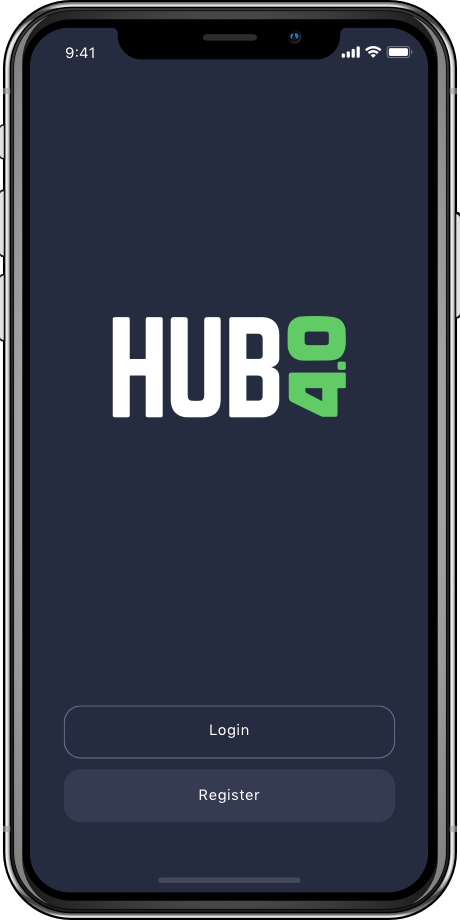
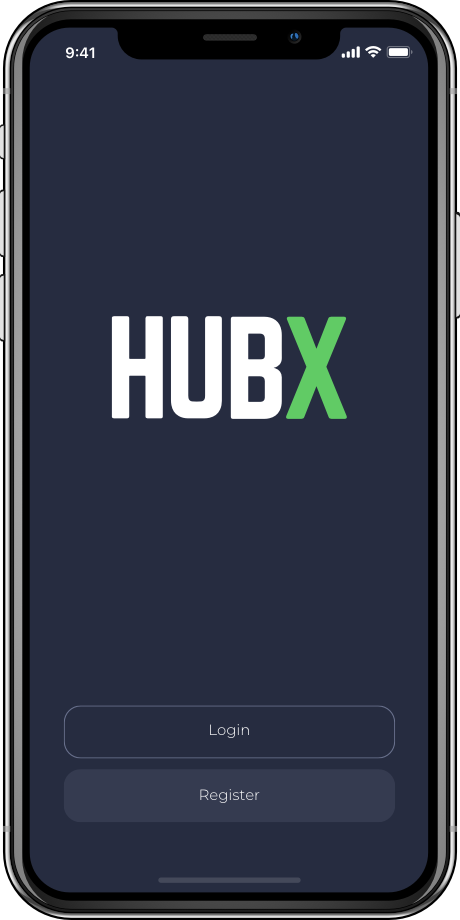
Rename Hub 4.0 -> Hub X

diff --git a/src/pages/Projects/Hub/sections/Logo/icons/index.js b/src/pages/Projects/Hub/sections/Logo/icons/index.js
@@ -1,4 +1,4 @@
-/* eslint-disable max-len */
+/* eslint-disable */
 import React, {PureComponent} from 'react';
 import './index.styl';
 
@@ -71,43 +71,37 @@ export class BackgroundMobile extends PureComponent {
 export class AboutLogo extends PureComponent {
   render() {
     return (
-      <svg xmlns="http://www.w3.org/2000/svg" xmlnsXlink="http://www.w3.org/1999/xlink" width="300" height="300" viewBox="0 0 300 300" className="hub-icon">
+      <svg width="300" height="300" viewBox="0 0 300 300" xmlns="http://www.w3.org/2000/svg">
         <defs>
-          <filter id="filter-1" width="110.7%" height="110.7%" x="-5.4%" y="-5.4%" filterUnits="objectBoundingBox">
+          <filter x="-7.1%" y="-7.1%" width="114.3%" height="114.3%" filterUnits="objectBoundingBox"
+                  id="filter-1">
             <feOffset in="SourceAlpha" result="shadowOffsetOuter1" />
-            <feGaussianBlur in="shadowOffsetOuter1" result="shadowBlurOuter1" stdDeviation="5" />
-            <feColorMatrix in="shadowBlurOuter1" result="shadowMatrixOuter1" values="0 0 0 0 0 0 0 0 0 0 0 0 0 0 0 0 0 0 0.2 0" />
+            <feGaussianBlur stdDeviation="5" in="shadowOffsetOuter1" result="shadowBlurOuter1"
+            />
+            <feColorMatrix values="0 0 0 0 0 0 0 0 0 0 0 0 0 0 0 0 0 0 0.2 0" in="shadowBlurOuter1"
+                           result="shadowMatrixOuter1" />
             <feMerge>
               <feMergeNode in="shadowMatrixOuter1" />
               <feMergeNode in="SourceGraphic" />
             </feMerge>
           </filter>
-          <rect id="path-2" width="280" height="280" rx="63" />
-          <path id="path-4" d="M.09274743.14117799H218.591032V95.1702593H.09274743z" />
         </defs>
-        <g id="Project-pages" fill="none" fillRule="evenodd">
+        <g id="Project-Pages" fill="none" fillRule="evenodd">
           <g id="HUB4.0-presentation-" transform="translate(-490 -2294)">
             <g id="AppIcon" transform="translate(0 2084)">
               <g id="Group-17" transform="translate(500 220)">
                 <g id="Group-13" filter="url(#filter-1)">
-                  <mask id="mask-3" fill="#fff">
-                    <use xlinkHref="#path-2" />
-                  </mask>
-                  <use id="Mask" fill="#262C40" xlinkHref="#path-2" />
-                  <g id="Logo" mask="url(#mask-3)">
-                    <g id="Group-26" transform="translate(30.545455 91.636364)">
-                      <g id="Group-3" transform="translate(0 .534073)">
-                        <mask id="mask-5" fill="#fff">
-                          <use xlinkHref="#path-4" />
-                        </mask>
-                      </g>
-                      <path id="Fill-4" fill="#FFF" d="M.13368494 2.70972121c.4110812-.91083536 1.13966412-1.20194439 2.09829655-1.19634614 3.85402545.02183318 7.70860792.0089572 11.56263341.0089572 1.7156234 0 2.2659597.54806873 2.2676308 2.29360325.0044561 4.90350765.001671 9.80701528.001671 14.71108278 0 7.1875939.0083553 14.3751878-.0155966 21.5627816-.002228.6141281.1788037.7311316.7475217.7283324 4.4778885-.0229528 8.956334-.0235126 13.4342225 0 .594341.003359.7798288-.1298794.7787148-.7641612-.0211668-11.9791365-.0155966-23.9588328-.0144825-35.93796935 0-.26871603.0033421-.53743205.0178246-.80558825.0623863-1.15323962.6817932-1.78136333 1.8181152-1.78416245 4.0768337-.01007685 8.1542244-.01063668 12.2310581 0 1.2638797.00335895 1.8615628.63820056 1.8615628 1.92411871.000557 30.07212244.000557 60.14368514 0 90.21524774 0 1.3195076-.5598057 1.884931-1.8598918 1.884931a22271.70541997 22271.70541997 0 0 1-12.231615 0c-1.1636161 0-1.758514-.5704618-1.8197863-1.7444149-.0150396-.2899894-.0172676-.5816582-.0172676-.8727673-.0011141-11.9343505-.0066843-23.8692608.0144825-35.8036113.001114-.6505168-.1576368-.8100669-.8026667-.8055883-4.4778885.0307904-8.956334.0296707-13.4342225 0-.6132797-.0039188-.7213417.1802637-.7207846.7512852.0167106 11.9567435.0128114 23.9140469.0116974 35.8707904 0 .313502-.0016711.6275639-.0206098.9399463-.0668424 1.0810221-.6829072 1.6638-1.7624131 1.6638-4.0545529.0022393-8.10966275-.0173545-12.16421561.0145555-.96420264.0072777-1.63819755-.2955876-1.98187925-1.2226579V2.70972121z" />
-                      <path id="Fill-6" fill="#61CB65" d="M191.212245 15.0705465c-2.69598 0-5.391959.0022393-8.087382-.0022393-.425564-.0005599-.843329.0363886-1.259424.1276401-1.364143.2972671-1.990791 1.0446335-1.995247 2.4363586-.007799 2.5751953-.006685 5.1503905 0 7.7255858.002785 1.0966972.466226 1.7416157 1.50117 2.1273352.720785.268716 1.476105.3252583 2.234767.3258181 5.034909.0039188 10.070375.0050385 15.105284-.0033589.510231-.0005598 1.024918-.0431065 1.529579-.1186829 1.613688-.2424043 2.269858-1.027279 2.269858-2.6698057.000557-2.3736582 0-4.7467566 0-7.1204149 0-1.8519013-.525827-2.480025-2.34617-2.7716938-.305805-.0487048-.621078-.0537432-.931896-.054303-2.673142-.0039188-5.34684-.0022393-8.020539-.0022393M207.66719 1.58660019c5.797467 1.20643099 9.198081 4.74787629 10.358355 10.51799311.326971 1.625732.195514 3.2956901.27851 4.9443749.199971 3.9803561.382116 7.9898232-.184374 11.926513-.648372 4.5026729-2.088127 8.7440365-6.386798 11.2121762-6.255533 3.5916982-30.046475 4.2119386-38.897861 1.1543592-4.829116-1.668146-7.467975-5.2114114-8.551937-10.1143592-.461214-2.086468-.313046-4.1886111-.344796-6.2823568-.055145-3.6248672-.14204-7.2586917.053474-10.8746017.34201-6.31930521 3.783598-11.27911334 10.573922-12.84518587 4.613772-1.06408815 26.252868-1.06408815 33.101505.36108716z" />
-                      <path id="Fill-10" fill="#FFF" d="M125.284569 68.0725993c0 3.7368323.006684 7.4731047-.008355 11.2099369-.002228.4456208.090794.6230853.580415.6202862 3.539866-.0195939 7.079732.0072777 10.619041-.0167948 2.478184-.0162349 3.983811-1.37605 4.025588-3.8605536.086338-5.0994464.116974-10.2022518.031193-15.3011384-.050132-2.991705-1.656022-4.3834301-4.644995-4.38399-3.317615 0-6.634672.0123162-9.95173-.0123161-.529726-.0044786-.666753.1410759-.663411.6689909.022838 3.6920463.012254 7.3835327.012254 11.0755789m0-39.2258219c0 3.7586654.008356 7.5173308-.010583 11.2759962-.002228.4702531.127558.6012521.596012.598453 3.739836-.0184742 7.479672-.0022393 11.219509-.012876 2.360653-.0067179 3.472466-1.1426029 3.47358-3.5185004.002228-5.0115539.001671-10.0231078-.001114-15.0346617 0-.3347754-.01504-.6701106-.037878-1.0043261-.180474-2.5835927-1.715066-4.0525736-4.277361-4.0615308-3.450185-.0123162-6.900928.0078375-10.351113-.0156751-.505218-.003359-.626091.1321187-.622749.6314826.021724 3.7138795.011697 7.4277589.011697 11.1416383m23.505712 19.7802986c.423893.1125249.852799.2093746 1.271121.3403737 3.774929 1.1851496 6.060941 4.3140118 6.060941 8.2859706.000557 7.3208322.025623 14.6422243-.011697 21.9630566-.015597 2.9754701-.511345 5.8776032-1.853765 8.5742805-1.982993 3.9842749-5.295595 6.2151777-9.518925 7.2155851-1.519552.3599675-3.060271.550308-4.628284.5491884-9.623087-.0089572-19.246175-.0044786-28.86982-.0044786-1.320696 0-1.902782-.5637438-1.956813-1.8966873-.007798-.201537-.001671-.403074-.001671-.604611 0-29.6869629 0-59.3733659.001671-89.0603287 0-.31182255.006127-.62700406.045676-.93602749.126443-.97577507.662854-1.47289972 1.625943-1.52944205.133685-.00783755.267369-.00167947.401054-.00167947 9.556803-.00055983 19.113048-.04086723 28.669293.0201537 3.776043.02351265 7.383308.84309653 10.479228 3.20051984 3.041333 2.31543642 4.564784 5.52323397 5.235437 9.20576317.285194 1.5652709.387129 3.1484561.385458 4.7405986-.006127 6.9625442-.071856 13.9262081.021167 20.8876326.065728 4.9370972-3.242417 8.0648397-7.033499 8.8178044-.102492.0207136-.201085.0587817-.301348.0884524-.006684.0475851-.013926.0957301-.021167.143875" />
-                      <path id="Fill-12" fill="#FFF" d="M101.221057 42.207954c0 12.4264368.006684 24.8534333-.005013 37.2798701-.002785 2.7800912-.488507 5.4784479-1.6621496 8.0122161-1.9167078 4.1404661-5.2599454 6.473817-9.5913375 7.5044549-1.5852806.3773221-3.193956.5581456-4.8293685.5525473-5.1017515-.0162349-10.2040601.0335895-15.3046976-.0212733-2.9054194-.0313502-5.6972066-.6762687-8.2583873-2.1138994-3.9498329-2.2169073-5.9361684-5.7768348-6.7477474-10.1137995-.2968919-1.5865442-.3949276-3.1915626-.3943705-4.8066579.0050132-24.7414683.0033421-49.4823767.0033421-74.22384504 0-1.86645673.8806495-2.75545892 2.7294009-2.75545892 3.5420939 0 7.0847448-.00055982 10.6268387.00055983 1.6454389.00055982 2.5522684.91643361 2.5522684 2.57743455 0 23.53224618 0 47.06449238.000557 70.59673848.000557.7384093.02618 1.4773784.1927291 2.2006723.4094101 1.7735258 1.5624428 2.8987742 3.3571631 3.0532859 2.7750766.2396051 5.5635216.2396051 8.3391552.0016795 1.9529142-.1673877 3.2240352-1.5148866 3.4613259-3.4916289.0746408-.6202862.1086191-1.2489697.1086191-1.8737345.0055702-23.4426741.0183816-46.8853483-.0222809-70.32746264-.0033421-1.8255895 1.2822614-2.7996851 2.7555809-2.76329647 3.3844571.08229428 6.7722563.0246323 10.1583844.02631178 1.6064475.00111965 2.5294305.92483099 2.5294305 2.53264854.001114 12.71754579.000557 25.43509149.000557 38.15263729" />
-                      <path id="Fill-14" fill="#61CB65" d="M188.484961 68.1639628c-2.428053 0-4.856663.0156751-7.284716-.012876-.509673-.0055983-.655613.1377169-.62442.6382005.043448.691384.045119 1.3894858.002785 2.0808698-.056259.9231515.339226 1.4896944 1.149691 1.9101231 4.660591 2.4195638 9.304472 4.8710378 13.956151 7.3073964.557577.2922287.674552.2121737.675109-.4590565.003342-3.6271066-.007242-7.2542131.012811-10.8813196.002228-.4797701-.14204-.5973334-.602696-.5934146-2.428053.0218332-4.856663.0100769-7.284715.0100769m3.351035-14.6058357c8.241677 0 16.483911.0167947 24.725587-.0173546 1.264994-.0055982 1.872147.4366636 1.876046 1.9017257.010583 3.7166786.003342 7.4327973.003899 11.148916.000557.2916688-.015597.5743805-.104163.8598913-.153738.4920862-.436704.7249734-.973115.719935-2.004717-.0184742-4.009991.0173546-6.014151-.022393-.59267-.0117563-.739724.1511527-.736939.742328.033422 7.8123586.040106 15.6247173.05236 23.4376357.000557.2457632.015597.4954452-.017267.7372896-.238962 1.7595302-.794869 2.0013746-2.162911 1.9851397-3.763788-.044786-7.529247-.0279913-11.293593-.0044786-.689591.0044786-1.308441-.1349179-1.921721-.4333046-4.599319-2.2393002-9.210892-4.4528485-13.805198-6.7027854-4.794833-2.3479063-9.570171-4.7355601-14.362776-7.087945-1.29563-.6359613-1.67329-1.8384655-1.985778-3.0835164-.107505-.4277063-.121988-.8867629-.122545-1.3318238-.007241-6.6714352-.003899-13.3428704-.007241-20.0143055 0-.5413509.042334-1.0731847.238405-1.5820656.334769-.8699682.893461-1.2528885 1.818672-1.2528885h24.792429" />
-                      <path id="Fill-16" fill="#61CB65" d="M218.441194 47.2493466c0 .6701106.002785 1.3402212-.000557 2.0108916-.005571 1.0060056-.732482 1.7914402-1.742918 1.811034-1.399793.0274315-2.800699.0240725-4.201049.0011197-.972001-.0162349-1.781909-.8190241-1.801405-1.7987179-.028408-1.4068404-.026737-2.8148004-.000557-4.2222006.018382-.9869716.759776-1.7707266 1.790821-1.8132733 1.398122-.057662 2.801257-.061021 4.199379-.0072778 1.105686.0425467 1.754615.8207036 1.756286 1.9409135.000557.6925036 0 1.3850072 0 2.0775108" />
-                    </g>
+                  <path d="M80.7623838,-3.26289697e-15 L199.237616,3.26289697e-15 C227.320457,-1.8958371e-15 237.503973,2.92400675 247.77064,8.41468017 C258.037306,13.9053536 266.094646,21.9626937 271.58532,32.2293603 C277.075993,42.496027 280,52.6795435 280,80.7623838 L280,199.237616 C280,227.320457 277.075993,237.503973 271.58532,247.77064 C266.094646,258.037306 258.037306,266.094646 247.77064,271.58532 C237.503973,277.075993 227.320457,280 199.237616,280 L80.7623838,280 C52.6795435,280 42.496027,277.075993 32.2293603,271.58532 C21.9626937,266.094646 13.9053536,258.037306 8.41468017,247.77064 C2.92400675,237.503973 1.2638914e-15,227.320457 -2.17526465e-15,199.237616 L2.17526465e-15,80.7623838 C-1.2638914e-15,52.6795435 2.92400675,42.496027 8.41468017,32.2293603 C13.9053536,21.9626937 21.9626937,13.9053536 32.2293603,8.41468017 C42.496027,2.92400675 52.6795435,1.8958371e-15 80.7623838,-3.26289697e-15 Z"
+                        id="Mask" fill="#262C40" />
+                  <g id="Group" transform="translate(31 92)">
+                    <path d="M0.134351145,1.7173614 C0.547480916,0.803957895 1.27969466,0.51202807 2.24310433,0.517642105 C6.11633588,0.539536842 9.99012723,0.526624561 13.8633588,0.526624561 C15.5875318,0.526624561 16.1406107,1.0762386 16.1422901,2.82669474 C16.1467684,7.74402807 16.1439695,12.6613614 16.1439695,17.5792561 C16.1439695,24.7871158 16.1523664,31.9949754 16.1282952,39.2028351 C16.126056,39.8186947 16.3079898,39.9360281 16.879542,39.9332211 C21.3797455,39.9102035 25.8805089,39.9096421 30.3807125,39.9332211 C30.9780153,39.9365895 31.1644275,39.8029754 31.1633079,39.1669053 C31.1420356,27.153993 31.1476336,15.1405193 31.1487532,3.12760702 C31.1487532,2.85813333 31.152112,2.58865965 31.1666667,2.31974737 C31.2293639,1.16325614 31.8518575,0.533361404 32.9938422,0.530554386 C37.0909924,0.520449123 41.1887023,0.519887719 45.2858524,0.530554386 C46.5560305,0.533922807 47.1566921,1.17055439 47.1566921,2.46009825 C47.1572519,32.6170105 47.1572519,62.7733614 47.1566921,92.9297123 C47.1566921,94.2529404 46.5940967,94.8199579 45.2875318,94.8199579 C41.1898219,94.8210807 37.0926718,94.8210807 32.9949618,94.8199579 C31.8255471,94.8199579 31.2276845,94.2478877 31.1661069,93.0706246 C31.1509924,92.7798175 31.1487532,92.4873263 31.1487532,92.1953965 C31.1476336,80.2273965 31.1420356,68.2588351 31.1633079,56.2908351 C31.1644275,55.6384842 31.0048855,55.4784842 30.3566412,55.4829754 C25.8564377,55.5138526 21.3556743,55.5127298 16.8554707,55.4829754 C16.2391349,55.4790456 16.1305344,55.6637474 16.1310941,56.2363789 C16.147888,68.2268351 16.1439695,80.2178526 16.1428499,92.2083088 C16.1428499,92.5226947 16.1411705,92.8376421 16.1221374,93.1509053 C16.0549618,94.2349754 15.435827,94.8193965 14.3509415,94.8193965 C10.2761832,94.8216421 6.20086514,94.801993 2.12610687,94.833993 C1.15709924,94.8412912 0.479745547,94.5375719 0.134351145,93.6078877 L0.134351145,1.7173614 Z"
+                          id="Fill-4" fill="#FFF" />
+                    <path d="M126.085251,67.7515762 C126.085251,71.4989446 126.091969,75.2457516 126.076854,78.9931201 C126.074615,79.4399973 126.168101,79.6179622 126.660162,79.6151551 C130.217669,79.595506 133.775175,79.6224534 137.332122,79.598313 C139.822656,79.5820323 141.335786,78.2183832 141.37777,75.7268744 C141.464539,70.6130499 141.495328,65.4958569 141.409119,60.3825937 C141.358737,57.3824534 139.744844,55.9868043 136.740977,55.9862429 C133.406829,55.9862429 130.073241,55.9985937 126.739653,55.973892 C126.207287,55.9694008 126.069577,56.1153657 126.072936,56.6447692 C126.095887,60.3472253 126.085251,64.0491201 126.085251,67.7515762 M126.085251,28.4151551 C126.085251,32.1844183 126.093648,35.9536815 126.074615,39.7229446 C126.072376,40.1945236 126.202809,40.325892 126.673597,40.323085 C130.432071,40.3045587 134.190544,40.3208394 137.949017,40.3101727 C140.321435,40.3034359 141.438788,39.1643481 141.439908,36.7817516 C141.442147,31.7560674 141.441587,26.7303832 141.438788,21.704699 C141.438788,21.3689797 141.423674,21.032699 141.400722,20.6975411 C141.219348,18.1066639 139.677109,16.6335411 137.102045,16.6245587 C133.634666,16.6122078 130.166727,16.6324183 126.699348,16.6088394 C126.191613,16.6054709 126.070137,16.7413306 126.073496,17.2421025 C126.095328,20.9664534 126.085251,24.6908043 126.085251,28.4151551 M149.708101,48.2512253 C150.134106,48.3640674 150.56515,48.4611902 150.985557,48.5925587 C154.779297,49.7810499 157.076702,52.9187341 157.076702,56.901892 C157.077261,64.2433657 157.102452,71.5854008 157.064946,78.9268744 C157.049272,81.9107341 156.551053,84.8210499 155.201943,87.5253306 C153.209068,91.5208394 149.879959,93.7580323 145.635582,94.7612604 C144.108457,95.1222429 142.56006,95.3131201 140.984233,95.3119973 C131.31319,95.3030148 121.642147,95.307506 111.970544,95.307506 C110.643267,95.307506 110.058279,94.7421727 110.003979,93.4054709 C109.996142,93.2033657 110.0023,93.0012604 110.0023,92.7991551 C110.0023,63.0284885 110.0023,33.2583832 110.003979,3.48771655 C110.003979,3.1750148 110.010137,2.85894462 110.049882,2.54904989 C110.176956,1.57052357 110.71604,1.07199725 111.683928,1.0152955 C111.818279,1.00743585 111.95263,1.01361129 112.086982,1.01361129 C121.691409,1.01304989 131.295277,0.972628832 140.899144,1.03382181 C144.694004,1.05740076 148.319246,1.8792955 151.430595,4.24336567 C154.487083,6.56533059 156.018127,9.78217269 156.692122,13.475085 C156.978737,15.0447692 157.08118,16.6324183 157.079501,18.2290499 C157.073343,25.2112253 157.007287,32.1945236 157.100773,39.1755762 C157.166829,44.1265937 153.842198,47.2631551 150.032223,48.0182429 C149.929221,48.0390148 149.830137,48.0771902 149.729373,48.1069446 C149.722656,48.1546639 149.715379,48.2029446 149.708101,48.2512253"
+                          id="Fill-10" fill="#FFF" />
+                    <path d="M198.243148,47.2119 L216.896718,92.4807 C217.600627,94.131125 217.014036,95.31 215.136948,95.31 L203.053188,95.31 C201.76269,95.31 200.824145,94.83845 200.354873,93.659575 L189.09234,65.1308 L177.829808,93.659575 C177.360535,94.83845 176.421991,95.31 175.131492,95.31 L163.047733,95.31 C161.170644,95.31 160.584054,94.131125 161.287962,92.4807 L179.824214,47.2119 L161.991871,3.8293 C161.287962,2.178875 161.874553,1 163.751642,1 L175.483447,1 C176.773945,1 177.71249,1.47155 178.181762,2.650425 L189.09234,30.5897625 L200.002919,2.650425 C200.472191,1.47155 201.410736,1 202.701234,1 L214.433039,1 C216.310128,1 216.896718,2.178875 216.19281,3.8293 L198.243148,47.2119 Z"
+                          id="X" fill="#61CB65" />
+                    <path d="M101.725481,41.3269614 C101.725481,53.7884351 101.732198,66.2504702 101.720443,78.7119439 C101.717644,81.4998737 101.229501,84.2058386 100.05001,86.7467509 C98.1237506,90.8988912 94.7638524,93.2388211 90.4108753,94.2723649 C88.8176947,94.6507509 87.2010025,94.8320842 85.5574402,94.8264702 C80.4302646,94.8101895 75.3025293,94.8601544 70.1764733,94.8051368 C67.2565751,94.7736982 64.4508753,94.1269614 61.8769313,92.6852772 C57.9074148,90.4621193 55.9111807,86.8921544 55.0955573,82.5429614 C54.7971858,80.9519439 54.6986616,79.3424 54.6992214,77.7227509 C54.7042595,52.9115228 54.7025802,28.1008561 54.7025802,3.28962807 C54.7025802,1.41790877 55.5876183,0.5264 57.4455827,0.5264 C61.0053282,0.5264 64.5656336,0.525838596 68.1253791,0.526961404 C69.7790178,0.527522807 70.6903664,1.44597895 70.6903664,3.11166316 C70.6903664,26.7102596 70.6903664,50.3088561 70.6909262,73.9074526 C70.691486,74.6479439 70.7172366,75.3889965 70.8846158,76.1143298 C71.2960662,77.8928561 72.4548448,79.0212772 74.2585089,79.1762246 C77.0474148,79.4165053 79.8497557,79.4165053 82.6392214,79.1779088 C84.6018677,79.0100491 85.8793232,77.6587509 86.1177964,75.6764351 C86.1928092,75.0544 86.2269567,74.4239439 86.2269567,73.7974175 C86.2325547,50.2886456 86.24543,26.7798737 86.2045649,3.27166316 C86.2012061,1.44092632 87.4932163,0.464084211 88.9738779,0.500575439 C92.375201,0.583101754 95.779883,0.525277193 99.1828855,0.526961404 C100.797338,0.528084211 101.724921,1.4544 101.724921,3.06675088 C101.726041,15.8201544 101.725481,28.5735579 101.725481,41.3269614"
+                          id="Fill-12" fill="#FFF" />
                   </g>
                 </g>
               </g>

diff --git a/src/pages/Projects/Hub/sections/Header/icons/index.js b/src/pages/Projects/Hub/sections/Header/icons/index.js
@@ -1,4 +1,4 @@
-/* eslint-disable max-len */
+/* eslint-disable */
 import React, {PureComponent} from 'react';
 
 import './index.styl';
@@ -6,15 +6,22 @@ import './index.styl';
 export class HubTitle extends PureComponent {
   render() {
     return (
-      <svg xmlns="http://www.w3.org/2000/svg" width="879" height="382" viewBox="0 0 879 382" className="hub-title-mobile">
-        <defs>
-          <path id="a" d="M.37283852.56659851H878.721425V381.952803H.37283852z" />
-        </defs>
-        <g fill="none" fillRule="evenodd" opacity=".2266183">
-          <path fill="#FFF" d="M.53740458 9.27426341C2.18992366 5.61875041 5.11877863 4.45042419 8.9724173 4.472892c15.4929262.08762447 30.9880916.0359485 46.4810178.0359485 6.8966921 0 9.1090076 2.19959879 9.1157252 9.2050626.0179135 19.6795564.0067176 39.3591129.0067176 59.0409162 0 28.8464237.0335877 57.6928477-.0626972 86.5392717-.0089568 2.464718.7187786 2.934296 3.0049872 2.923062 18.0008143-.092118 36.0038681-.094365 54.0046821 0 2.389211.013481 3.13486-.521253 3.130382-3.066856-.08509-48.076624-.062698-96.1554952-.058219-144.2321192 0-1.078455.013435-2.15691.071654-3.2331182.250788-4.62836923 2.740763-7.14925773 7.308702-7.16049163 16.3886-.04044206 32.77944-.04268884 49.168041 0 5.080712.01348069 7.483358 2.56133056 7.483358 7.72218693.00224 120.6903451.00224 241.3784441 0 362.0665431 0 5.295663-2.250381 7.564912-7.476641 7.564912-16.390839.004493-32.77944.004493-49.17028 0-4.677659 0-7.069109-2.28947-7.31542-7.00097-.060458-1.163833-.069414-2.334406-.069414-3.502732-.004479-47.896882-.026871-95.79601.058219-143.692891.004478-2.61076-.63369-3.251093-3.226667-3.233119-18.000814.123573-36.0038678.11908-54.004682 0-2.4653436-.015727-2.8997456.723464-2.8975064 3.015181.0671756 47.986752.0515013 95.975752.0470229 143.962505 0 1.258197-.0067176 2.518641-.0828499 3.772345-.2687023 4.338535-2.7452417 6.677434-7.0847837 6.677434-16.2990331.008987-32.6003053-.06965-48.89933842.058416-3.87603053.029209-6.58544529-1.1863-7.9670229-4.90697V9.27426341z" />
-          <path fill="#61CB65" d="M768.660519 58.8827428c-10.837659 0-21.675318.0089871-32.510738-.0089871-1.710738-.0022468-3.390127.1460408-5.062799.5122661-5.483766 1.1930408-8.00285 4.1924937-8.020763 9.7779918-.031349 10.3351935-.02687 20.670387 0 31.0055804.011196 4.401444 1.874198 6.989736 6.034605 8.537769 2.897507 1.078455 5.933843 1.305379 8.983614 1.307626 20.24.015728 40.482239.020221 60.722239-.01348 2.051094-.002247 4.120102-.173003 6.148804-.476318 6.486921-.972856 9.124682-4.122844 9.124682-10.7148996.002239-9.5263522 0-19.0504577 0-28.57681 0-7.4323522-2.113791-9.9532407-9.431451-11.1238137-1.229313-.1954699-2.496692-.215691-3.746157-.2179378-10.745853-.0157274-21.493944-.0089871-32.242036-.0089871m66.147786-54.11597182c23.305434 4.84184557 36.975675 19.05495132 41.639899 42.21252512 1.314402 6.5246525.785954 13.2268008 1.119592 19.8435715.803868 15.9746143 1.536082 32.0660612-.74117 47.8654264-2.606412 18.070861-8.392468 35.094722-25.674504 44.998534-9.04631 5.185571-19.149516 6.684174-29.360203 7.589627-10.365191.92118-106.467953 4.126414-127.006616-2.956764-19.412724-6.694876-30.020764-20.915286-34.378219-40.592596-1.854046-8.373754-1.258422-16.810417-1.386056-25.2133787-.221679-14.5479082-.570992-29.131765.214962-43.6437247 1.37486-25.3616661 15.209814-45.26717684 42.506463-51.55239449 18.54706-4.27057206 105.534788-4.27057206 133.065852 1.44917387z" />
-          <path fill="#FFF" d="M503.635644 271.599224c0 14.997264.02687 29.992282-.033588 44.989546-.008957 1.788438.364987 2.500668 2.333232 2.489434 14.230025-.078637 28.46005.029208 42.687837-.067403 9.962137-.065157 16.014656-5.522589 16.182595-15.493804.347074-20.465929.470229-40.94534.125395-61.409023-.201527-12.006799-6.6571-17.592297-18.67257-17.594544-13.336591 0-26.670942.04943-40.005293-.049429-2.129466-.017974-2.680305.566189-2.66687 2.684904.091806 14.817522.049262 29.632797.049262 44.450319m0-157.427465c0 15.084889.033588 30.169778-.042545 45.254667-.008957 1.887296.512774 2.413043 2.395929 2.401809 15.033893-.074144 30.067786-.008987 45.101679-.051676 9.48967-.026961 13.959084-4.58568 13.963563-14.12102.008956-20.113185.006717-40.22637-.004479-60.3395555 0-1.3435751-.060458-2.6893971-.152264-4.0307254-.725496-10.3688953-6.894453-16.2644491-17.194708-16.3003976-13.869516-.0494292-27.741272.0314549-41.610788-.0629099-2.030942-.0134807-2.516845.5302404-2.50341 2.5343692.087328 14.9051464.047023 29.8102929.047023 44.7154392m94.491399 79.38552c1.704021.451603 3.428194.840296 5.109822 1.366043 15.174962 4.756436 24.36458 17.313696 24.36458 33.254608.002239 29.381158.103003 58.764563-.047023 88.14572-.062697 11.941642-2.055572 23.588956-7.45201 34.411701-7.971501 15.990342-21.287939 24.943765-38.265445 28.958763-6.108499 1.44468-12.302087 2.208586-18.605394 2.204092-38.684174-.035948-77.368347-.017974-116.054759-.017974-5.309109 0-7.649058-2.262509-7.866259-7.612095-.031349-.808841-.006718-1.617682-.006718-2.426523 0-119.14456 0-238.286874.006718-357.4314335 0-1.2514571.024631-2.5163949.183613-3.7566181.508295-3.91613963 2.664631-5.91128133 6.536183-6.13820623.537405-.03145494 1.074809-.00674035 1.612214-.00674035 38.41771-.00224678 76.833181-.16401502 115.248651.08088413 15.17944.09436481 29.680407 3.38365247 42.125802 12.84484805 12.225954 9.2926871 18.350127 22.1667433 21.046107 36.94607 1.146463 6.2820002 1.556234 12.6358974 1.549516 19.0257431-.024631 27.9432179-.288855 55.8909289.085089 83.8296529.264224 19.814364-13.0343 32.36713-28.274198 35.389051-.41201.083131-.808346.235912-1.2114.354991-.02687.190977-.055979.3842-.085089.577423M406.901924 167.795012c0 49.871802.02687 99.745851-.020153 149.617653-.011196 11.157516-1.963766 21.987001-6.68173 32.155933-7.705038 16.617193-21.144631 25.981777-38.55654 30.118101-6.372722 1.514331-12.839491 2.240041-19.41374 2.217574-20.508702-.065157-41.019644.134806-61.523868-.085378-11.679593-.12582-22.902392-2.714112-33.198168-8.483846-15.878066-8.897253-23.863002-23.184535-27.125496-40.590349-1.193486-6.367378-1.587583-12.8089-1.585344-19.290863.020153-99.296495.013436-198.590743.013436-297.8872382 0-7.49076848 3.540152-11.05865701 10.97201-11.05865701 14.238982 0 28.480203-.00224678 42.719186.00224678 6.614554.00224678 10.259949 3.67798081 10.259949 10.34418063 0 94.4434478 0 188.8868948.002239 283.3303428.002239 2.963504.105242 5.929255.774758 8.832097 1.645802 7.117802 6.280916 11.633833 13.495573 12.253944 11.155623.961623 22.364987.961623 33.522849.006741 7.850586-.671788 12.960408-6.07979 13.914301-14.013175.300051-2.489433.436641-5.012569.436641-7.519976.022392-94.083963.073893-188.167925-.089567-282.2496412-.013436-7.32675345 5.154605-11.23615272 11.077251-11.09011195 13.605293.33027684 27.224021.09885838 40.836031.10559872 6.457812.00449356 10.168142 3.71168253 10.168142 10.16443813.004479 51.0401284.00224 102.0802563.00224 153.1203853" />
-          <path fill="#61CB65" d="M757.697018 271.965899c-9.760611 0-19.523461.062909-29.284071-.051676-2.048855-.022468-2.635522.552708-2.510128 2.56133.174657 2.774775.181374 5.576511.011196 8.351286-.226157 3.704942 1.363664 5.978685 4.62168 7.666017 18.735267 9.710589 37.403358 19.549243 56.102799 29.327235 2.241425 1.17282 2.711654.85153 2.713893-1.84236.013435-14.556896-.02911-29.113791.051501-43.670686.008957-1.925492-.570992-2.397316-2.422799-2.381589-9.760611.087625-19.523461.040443-29.284071.040443m13.470941-58.618522c33.130993 0 66.264224.067404 99.395217-.06965 5.08519-.022468 7.525903 1.752489 7.541577 7.632316.042545 14.91638.013435 29.830514.015674 44.744647.00224 1.170573-.062697 2.305198-.418727 3.451056-.618016 1.974921-1.755522 2.909582-3.911858 2.889361-8.058829-.074144-16.119898.06965-24.176488-.089872-2.382494-.047182-2.973639.606631-2.962443 2.979232.134351 31.353832.161221 62.707663.210483 94.063742.00224.986337.062698 1.988401-.069414 2.959011-.960611 7.061633-3.195318 8.032242-8.694759 7.967086-15.130178-.179743-30.267073-.112339-45.399491-.017975-2.772112.017975-5.259847-.541474-7.725191-1.739008-18.488956-8.987125-37.027175-17.870898-55.495979-26.900711-19.274911-9.423001-38.471451-19.005523-57.737405-28.446497-5.208346-2.552344-6.726514-7.37843-7.982697-12.375271-.432163-1.716541-.490382-3.558901-.492621-5.345092-.029109-26.774892-.015674-53.549783-.029109-80.324675 0-2.172637.170178-4.307079.958371-6.349404 1.345751-3.491497 3.591654-5.028296 7.310942-5.028296h99.663918M878.119084 188.027951c0 2.689397.011196 5.378794-.002239 8.070438-.022392 4.037465-2.944529 7.189699-7.006412 7.268337-5.627074.110092-11.258626.096611-16.887939.004493-3.907379-.065156-7.163156-3.287041-7.241527-7.218908-.114199-5.646161-.107481-11.296816-.002239-16.945223.073893-3.961076 3.054249-7.106569 7.198982-7.277325 5.620356-.231418 11.260865-.244899 16.881221-.029208 4.444784.170756 7.053435 3.293781 7.060153 7.789591.002239 2.779268 0 5.558536 0 8.337805" />
+      <svg width="860" height="377" viewBox="0 0 860 377" xmlns="http://www.w3.org/2000/svg">
+        <g id="Project-Pages" fill="none" fillRule="evenodd" opacity="0.2">
+          <g id="HUB4.0-presentation-" transform="translate(-210 -166)">
+            <g id="Header">
+              <g id="Group" transform="translate(210 166)">
+                <path d="M0.531857973,5.79788889 C2.16732124,2.18233333 5.0659472,1.02677778 8.87981208,1.049 C24.2128342,1.13566667 39.5480725,1.08455556 54.8810946,1.08455556 C61.7066053,1.08455556 63.8960873,3.26011111 63.9027355,10.189 C63.9204641,29.6534444 63.9093837,49.1178889 63.9093837,68.5845556 C63.9093837,97.1156667 63.9426248,125.646778 63.8473336,154.177889 C63.8384693,156.615667 64.5586937,157.080111 66.8213061,157.069 C84.6363321,156.977889 102.453574,156.975667 120.2686,157.069 C122.633152,157.082333 123.371105,156.553444 123.366673,154.035667 C123.282462,106.484556 123.304623,58.9312222 123.309055,11.3801111 C123.309055,10.3134444 123.322351,9.24677778 123.379969,8.18233333 C123.62817,3.60455556 126.092445,1.11122222 130.613238,1.10011111 C146.83269,1.06011111 163.054358,1.05788889 179.27381,1.10011111 C184.302084,1.11344444 186.679933,3.63344444 186.679933,8.73788889 C186.682149,128.109 186.682149,247.477889 186.679933,366.846778 C186.679933,372.084556 184.452777,374.329 179.280458,374.329 C163.05879,374.333444 146.839338,374.333444 130.61767,374.329 C125.98829,374.329 123.621522,372.064556 123.377753,367.404556 C123.317919,366.253444 123.309055,365.095667 123.309055,363.940111 C123.304623,316.566778 123.282462,269.191222 123.366673,221.817889 C123.371105,219.235667 122.739524,218.602333 120.173309,218.620111 C102.358283,218.742333 84.5410409,218.737889 66.7260149,218.620111 C64.2861164,218.604556 63.8561979,219.335667 63.858414,221.602333 C63.9248962,269.064556 63.9093837,316.529 63.9049516,363.991222 C63.9049516,365.235667 63.8983033,366.482333 63.8229568,367.722333 C63.5570278,372.013444 61.106049,374.326778 56.8112958,374.326778 C40.6804867,374.335667 24.5474615,374.257889 8.41665243,374.384556 C4.58062679,374.413444 1.89917618,373.211222 0.531857973,369.531222 L0.531857973,5.79788889 Z"
+                      id="Fill-4" fill="#FFF" />
+                <path d="M499.135651,267.183322 C499.135651,282.016656 499.162244,296.847767 499.10241,311.6811 C499.093545,313.449989 499.46363,314.154434 501.41156,314.143322 C515.494716,314.065545 529.577872,314.172211 543.658811,314.076656 C553.518129,314.012211 559.508179,308.614434 559.674385,298.752211 C560.017876,278.509989 560.13976,258.254434 559.798485,238.014434 C559.599038,226.138878 553.210094,220.614434 541.318636,220.612211 C528.119694,220.612211 514.922968,220.6611 501.726242,220.563322 C499.618755,220.545545 499.073601,221.123322 499.086897,223.218878 C499.177756,237.874434 499.135651,252.527767 499.135651,267.183322 M499.135651,111.476656 C499.135651,126.396656 499.168892,141.316656 499.093545,156.236656 C499.084681,158.103322 499.601027,158.623322 501.464746,158.612211 C516.343472,158.538878 531.222199,158.603322 546.100926,158.5611 C555.492651,158.534434 559.915937,154.025545 559.920369,144.594434 C559.929233,124.7011 559.927017,104.807767 559.915937,84.9144336 C559.915937,83.5855447 559.856103,82.2544336 559.765244,80.9277669 C559.047235,70.6722114 552.941949,64.8411002 542.748005,64.8055447 C529.021637,64.7566558 515.293053,64.8366558 501.566685,64.7433225 C499.556705,64.7299891 499.075817,65.2677669 499.089113,67.2499891 C499.17554,81.9922114 499.135651,96.7344336 499.135651,111.476656 M592.651795,189.994434 C594.338228,190.4411 596.044606,190.825545 597.708878,191.345545 C612.727217,196.049989 621.821989,208.469989 621.821989,224.236656 C621.824205,253.296656 621.923928,282.358878 621.775451,311.418878 C621.713401,323.229989 619.741094,334.749989 614.400354,345.454434 C606.511127,361.269989 593.33213,370.125545 576.52985,374.096656 C570.484398,375.525545 564.354735,376.2811 558.116484,376.276656 C519.831574,376.2411 481.546664,376.258878 443.259539,376.258878 C438.005225,376.258878 435.689427,374.0211 435.474468,368.729989 C435.443442,367.929989 435.467819,367.129989 435.467819,366.329989 C435.467819,248.487767 435.467819,130.647767 435.474468,12.8055447 C435.474468,11.5677669 435.498844,10.3166558 435.656186,9.08998913 C436.159235,5.2166558 438.293315,3.24332246 442.124908,3.01887802 C442.656766,2.98776691 443.188624,3.01221135 443.720482,3.01221135 C481.741679,3.00998913 519.76066,2.84998913 557.779641,3.09221135 C572.802412,3.18554468 587.153713,6.43887802 599.470657,15.7966558 C611.570426,24.9877669 617.631391,37.7211002 620.299545,52.338878 C621.434176,58.5522114 621.839717,64.8366558 621.833069,71.1566558 C621.808692,98.7944336 621.547196,126.436656 621.91728,154.069989 C622.178777,173.667767 609.017508,186.083322 593.934902,189.072211 C593.527145,189.154434 593.134899,189.305545 592.736006,189.423322 C592.709413,189.612211 592.680604,189.803322 592.651795,189.994434"
+                      id="Fill-10" fill="#FFF" />
+                <path d="M784.788243,185.880438 L858.632422,365.069438 C861.418995,371.60237 859.096851,376.26875 851.66599,376.26875 L803.829824,376.26875 C798.721107,376.26875 795.005677,374.402198 793.147962,369.735818 L748.562797,256.809417 L703.977633,369.735818 C702.119918,374.402198 698.404487,376.26875 693.29577,376.26875 L645.459605,376.26875 C638.028744,376.26875 635.7066,371.60237 638.493173,365.069438 L711.872922,185.880438 L641.279745,14.1576458 C638.493173,7.62471354 640.815317,2.95833333 648.246177,2.95833333 L694.689057,2.95833333 C699.797774,2.95833333 703.513204,4.82488542 705.370919,9.49126563 L748.562797,120.084477 L791.754675,9.49126563 C793.61239,4.82488542 797.327821,2.95833333 802.436537,2.95833333 L848.879417,2.95833333 C856.310278,2.95833333 858.632422,7.62471354 855.845849,14.1576458 L784.788243,185.880438 Z"
+                      id="X" fill="#61CB65" />
+                <path d="M402.702248,162.585889 C402.702248,211.912556 402.728841,261.241444 402.682303,310.568111 C402.671223,321.603667 400.738805,332.314778 396.069536,342.372556 C388.444022,358.808111 375.143141,368.070333 357.910942,372.161444 C351.603993,373.659222 345.203969,374.377 338.697573,374.354778 C318.400543,374.290333 298.101297,374.488111 277.808699,374.270333 C266.249653,374.145889 255.142685,371.585889 244.953173,365.879222 C229.238986,357.079222 221.336463,342.948111 218.107642,325.732556 C216.926474,319.434778 216.536445,313.063667 216.538661,306.652556 C216.558605,208.441444 216.551957,110.232556 216.551957,12.0214444 C216.551957,4.61255556 220.055572,1.08366667 227.410724,1.08366667 C241.502744,1.08366667 255.596981,1.08144444 269.689001,1.08588889 C276.235286,1.08811111 279.843056,4.72366667 279.843056,11.317 C279.843056,104.728111 279.843056,198.139222 279.845272,291.550333 C279.847488,294.481444 279.949428,297.414778 280.612034,300.285889 C282.240849,307.325889 286.828124,311.792556 293.968317,312.405889 C305.008802,313.357 316.102473,313.357 327.145175,312.412556 C334.914733,311.748111 339.971816,306.399222 340.915864,298.552556 C341.212818,296.090333 341.347998,293.594778 341.347998,291.114778 C341.370159,198.059222 341.421129,105.003667 341.259355,11.9503333 C341.246059,4.70366667 346.36076,0.837 352.222278,0.981444444 C365.687149,1.30811111 379.165316,1.07922222 392.636836,1.08588889 C399.027996,1.09033333 402.700032,4.757 402.700032,11.1392222 C402.704464,61.6214444 402.702248,112.103667 402.702248,162.585889"
+                      id="Fill-12" fill="#FFF" />
+              </g>
+            </g>
+          </g>
         </g>
       </svg>
     );

diff --git a/src/pages/Journey/CaseStudies/index.js b/src/pages/Journey/CaseStudies/index.js
@@ -53,10 +53,10 @@ class CaseStudies extends Component {
           />
           <CaseStudy
             hasMobileThumbnails
-            title="HUB 4.0"
+            title="HUB X"
             subtitle="Community App"
             text={`This app is designed to elevate the coworking experience for
-              members of the space we reside in. \\nHub 4.0 delights members with a
+              members of the space we reside in. \\nHub X delights members with a
               seamless meeting room booking experience. It also brings the community
               events to life.`}
             href="/hub"

diff --git a/src/pages/Projects/Hub/sections/About/index.js b/src/pages/Projects/Hub/sections/About/index.js
@@ -10,7 +10,7 @@ class About extends PureComponent {
       <AboutSection
         shortDesc={{
           year: '2018',
-          client: 'HUB 4.0',
+          client: 'HUB',
           services: 'UX and UI Design, Development',
         }}
         story={{
